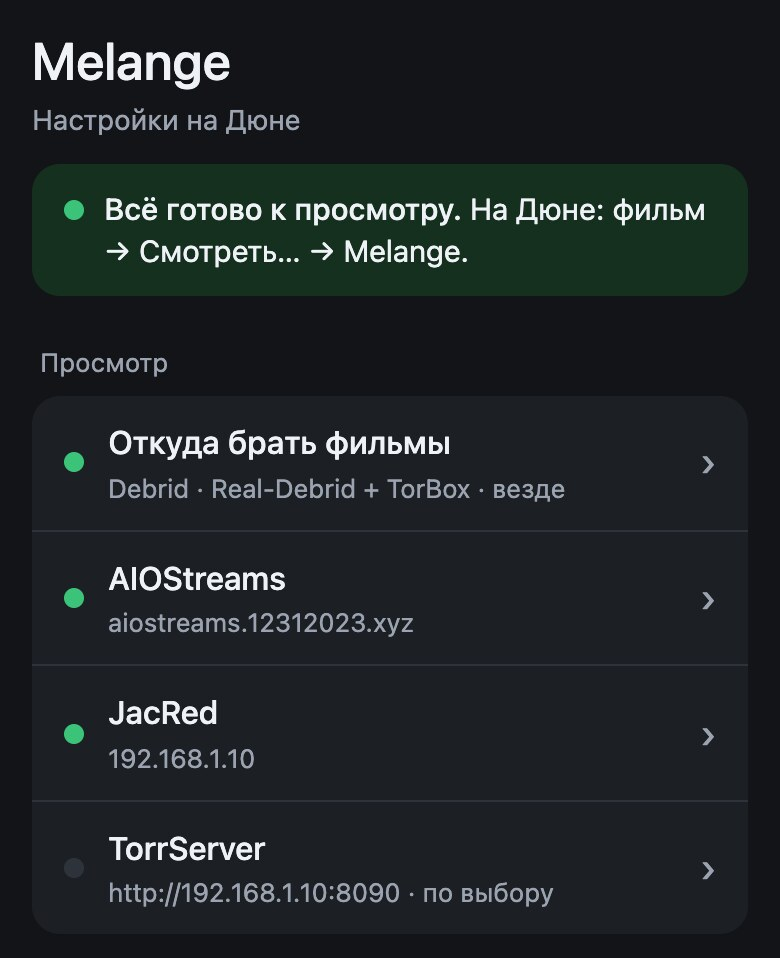
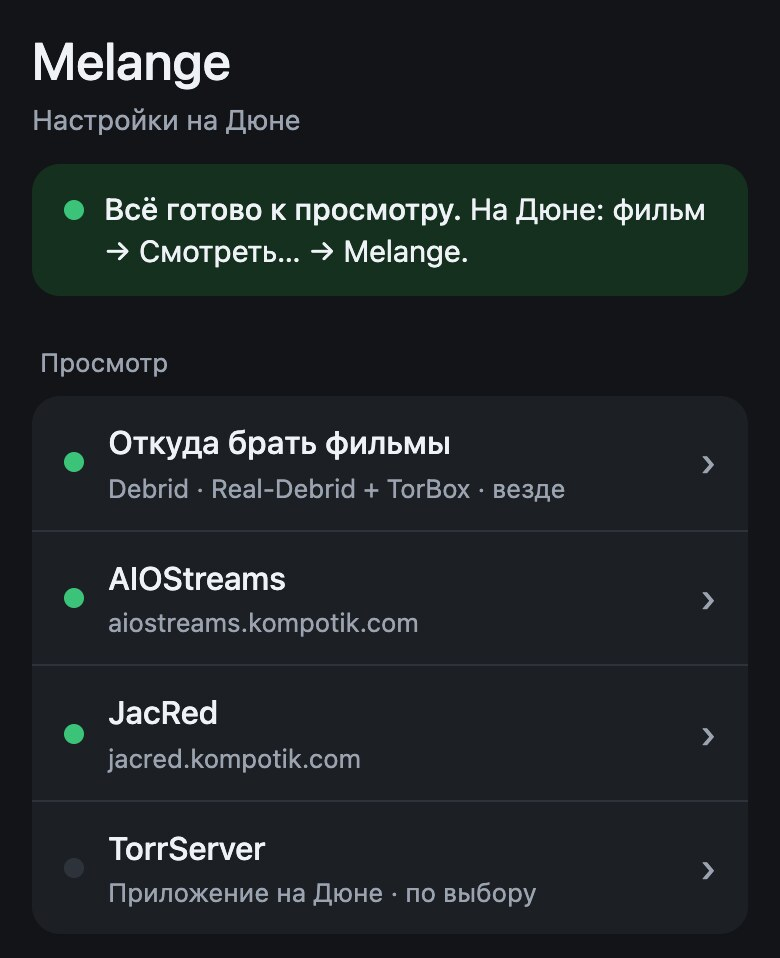
Гайд v2 (A2): кадры страницы — сервер Melange вместо тестовых данных

Changed region(s): [[0.1231, 0.9081, 0.7077, 0.9687], [0.1231, 0.7871, 0.4615, 0.8173], [0.3077, 0.6357, 0.5538, 0.666]]

diff --git a/docs/profiles.md b/docs/profiles.md
@@ -8,7 +8,7 @@
 
 2. Откройте «Откуда брать фильмы». Вверху появился список профилей; у того, что сейчас на Дюне, пометка «сейчас».
 
-   <img src="../screenshots/profiles-list.jpg" alt="«Откуда брать фильмы»: профили Debrid, NAS и «Свой конфиг» с пометкой «сейчас», ниже «+ Новый профиль»" width="300">
+   <img src="../screenshots/profiles-list.jpg" alt="«Откуда брать фильмы»: профили «Debrid» с пометкой «сейчас» и «Торренты», ниже «+ Новый профиль»" width="300">
 
 3. Нажмите «+ Новый профиль», впишите название, выберите источник и нажмите «Сохранить». Так же добавьте остальные.
 
